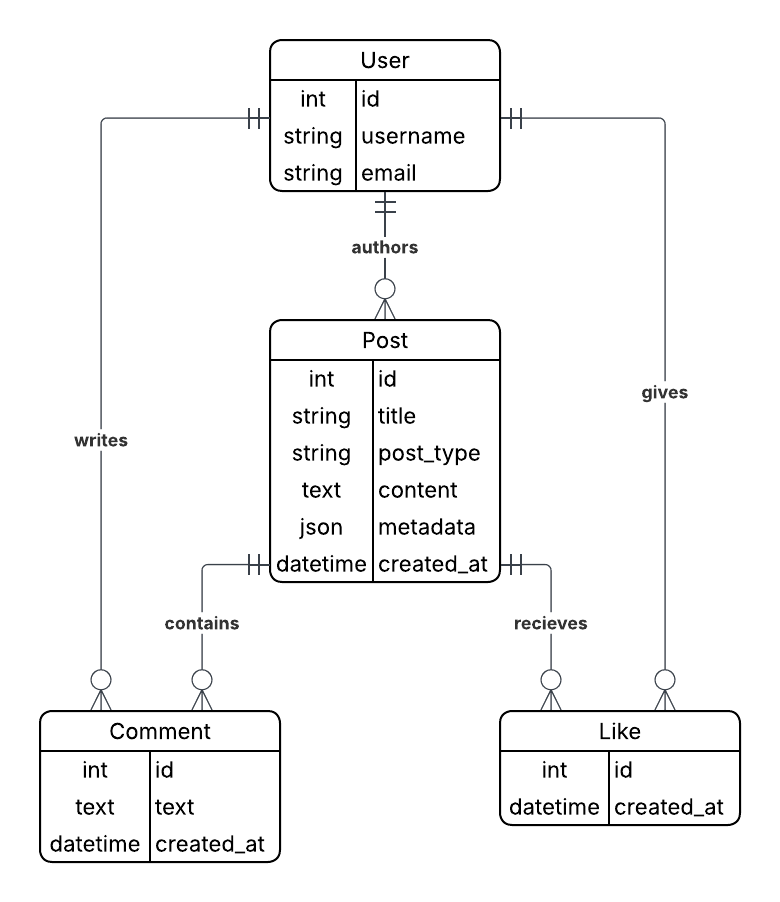
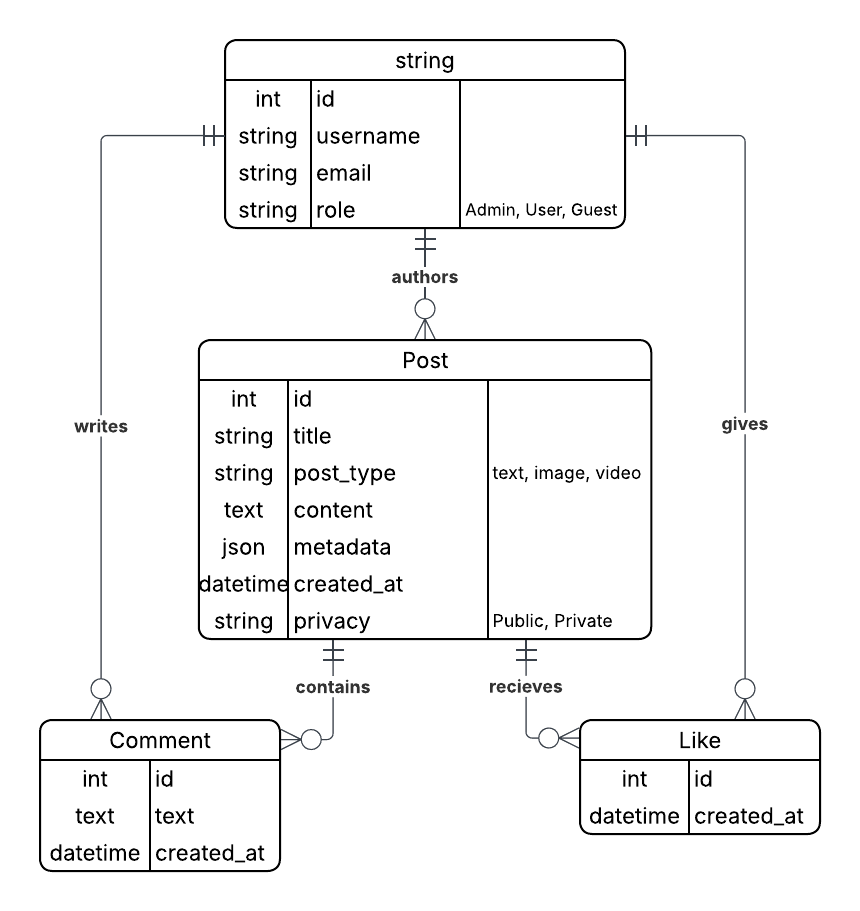
ReadMe (Pagination and Caching) Update & Updated Diagrams

Changed region(s): [[0.0308, 0.031, 0.9538, 0.9623], [0.7077, 0.1242, 0.8615, 0.1552]]

diff --git a/README.md b/README.md
@@ -9,12 +9,14 @@
 - API Endpoints
 - Role-based Access Control
 - Privacy and Visibilty
+- Pagination
+- Caching
 - System Diagrams
 - Requirements
 
 ## About the Project  
 **Description**:
-- This is the backend API for the social media called Connectly. It utilizes Django 6.0 and Django REST Framework (DRF), factories, and Google OAuth integration.
+- This is the backend API for the social media called Connectly. It utilizes Django 6.0 and Django REST Framework (DRF), factories, singletons, and Google OAuth integration.
 
 
 ## Tech Stack  
@@ -56,6 +58,7 @@ Used to centralize entity creation.
 Ensures resource efficiency and global consistency.  
 - ConfigManager: Manages global settings.
 - LoggerSingleton: Provides a standardized logs format for the system.
+- Pagination: Allows for the feed to load up to 10 posts per page to improve load times and user experience.
   
 
 ## API Endpoints  
@@ -76,7 +79,7 @@ Ensures resource efficiency and global consistency.
 **Feed and Filters**
 | Resource                |            Read(GET)             |                           Description |
 | :---------------------- | :------------------------------: | ------------------------------------: |
-| Feed                    |           /posts/feed/           |                         Get all posts |
+| Feed                    |       /posts/feed/?page=#        |                         Get all posts |
 | Comment Filter by User  | /posts/feed/?commented_by=userid |        Get posts commented by user id |
 | Likes Filter by User    |   /posts/feed/?liked_by=userid   |            Get posts liked by user id |
 | Filter by Comment Count | /posts/feed/?min_comment_count=# | Filter posts by minimum comment count |
@@ -97,7 +100,19 @@ Posts now support privacy settings:
 - Private: Hidden from the general feed, only accessible to the author and admin users.
 
 
-## System Diagrams (To be Updated)
+## Pagination  
+Feed now support pagination via singleton:  
+- Global implementation.
+- Up to 10 posts per feed page. (Adjustable in the "page_size" parameter inside pagination.py under singetons folder)
+
+
+## Caching  
+Feed now support caching for faster load times on frequent queries:
+- Cache duration: 10 minutes. (Adjustable under FeedView method decorator)
+- Caching drawback: Page updates may take upto 10 minutes to reflect cached pages.
+
+
+## System Diagrams
 **Data Relationship Diagram**
 ![alt text](<docs/IPT Diagrams (Connectly) - Data Relationship Diagram.png>)  
 **CRUD Interaction Flow Diagram**
